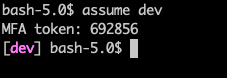
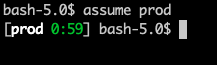
Update README

Changed region(s): [[0.0, 0.2769, 0.8848, 0.7692], [0.0, 0.0308, 0.8018, 0.2769]]

diff --git a/README.md b/README.md
@@ -16,14 +16,16 @@ In a new shell you can call `assume <profile name>` to assume the role from `<pr
 
 ## Features
 
-### Shows assumed profile in shell prompt
-![prompt](./doc/prompt.png)
-
-### Explains what has been done
+### Simple installation
+It is just a single [binary](https://github.com/sam701/awscredx/releases/latest) that creates all required helper shell scripts.
+It explains what has been done.
 ![init](./doc/init.png)
 
+### Shows assumed profile with "expires in" in shell prompt
+![prompt](./doc/prompt.png)
+
 ### Configurable role profiles
-The [configuration file](./src/init/config-template.toml) is well documented.
+Well documented [configuration file](./src/init/config-template.toml).
 ```toml
 [profiles]
 dev = "arn:aws:iam::123456589012:role/Admin"
@@ -33,6 +35,9 @@ prod = "arn:aws:iam::123456589013:role/TestRole"
 ### Yubikey integration
 The MFA is read from your Yubikey so you do not need to type it.\
 ![prompt](./doc/yubikey.png)
+
+### Lists current credentials with their expiration times
+![prompt](./doc/credential-list.png)
 
 ### Checks for new versions
 ![version-check](./doc/version-check.png)
